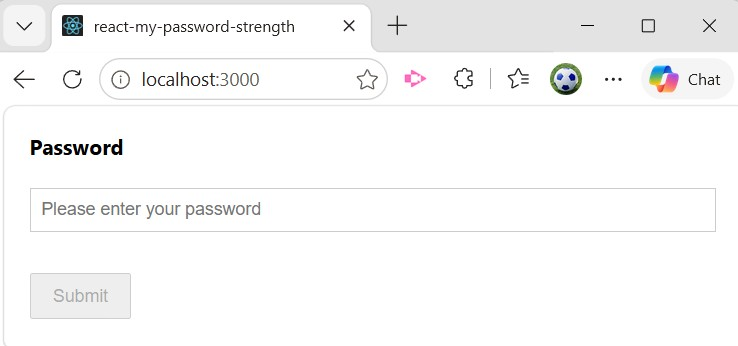
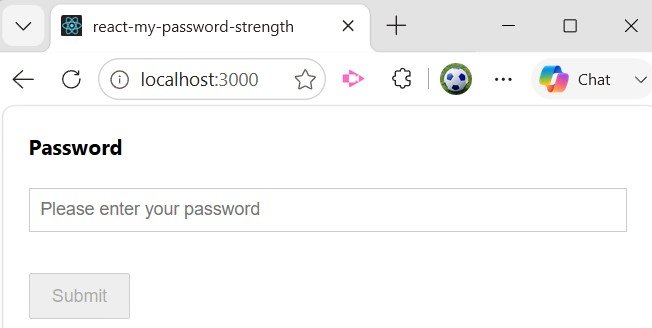
added max no of consecutive ascending/descending chars to reactjs project.

diff --git a/react-my-password-strength/src/index.test.tsx b/react-my-password-strength/src/index.test.tsx
@@ -1,6 +1,6 @@
 import React from 'react';
 import { render, fireEvent } from "@testing-library/react";
-import { MaximumNoOfConsecutiveDigits, MyPasswordStrengthOptions, PasswordStrength } from './index';
+import { MaximumNoOfConsecutiveCharacters, MaximumNoOfConsecutiveDigits, MyPasswordStrengthOptions, PasswordStrength } from './index';
 
 const initialStyleOptions={
   border: "1px solid #ccc",
@@ -51,7 +51,7 @@ const testBody = (strengthOptions: MyPasswordStrengthOptions, passwordToTest: st
 
 describe('All Together', () => {
   test.each([
-    ["P@76w0rDe123!", true] // Valid password
+    ["P@76abc0rDed123!", true] // Valid password
   ])(
     'passwordToTest: "%s" and expectedResult: %s',
     (passwordToTest, expectedResult) => {
@@ -74,6 +74,10 @@ describe('All Together', () => {
         options.maximumNoOfConsecutiveAscendingDigits = MaximumNoOfConsecutiveDigits.Three;
         options.requireMaximumNoOfConsecutiveDescendingDigits = true;
         options.maximumNoOfConsecutiveDescendingDigits = MaximumNoOfConsecutiveDigits.Three;
+        options.requireMaximumNoOfConsecutiveAscendingCharacters = true;
+        options.maximumNoOfConsecutiveAscendingCharacters = MaximumNoOfConsecutiveCharacters.Three;
+        options.requireMaximumNoOfConsecutiveDescendingCharacters = true;
+        options.maximumNoOfConsecutiveDescendingCharacters = MaximumNoOfConsecutiveCharacters.Two;
         
         return options;
       };
@@ -235,6 +239,49 @@ describe('Max No Of Consecutive Ascending & Descending Digits', () => {
         options.maximumNoOfConsecutiveAscendingDigits = maxNoOfConsecutiveAscendingDigits;
         options.requireMaximumNoOfConsecutiveDescendingDigits = true;
         options.maximumNoOfConsecutiveDescendingDigits = maxNoOfConsecutiveDescendingDigits;
+        
+        return options;
+      };
+      testBody(getOptions(), passwordToTest, expectedResult);
+    }
+  );
+});
+
+describe('Max No Of Consecutive Ascending & Descending Characters', () => {
+  test.each([
+    ["Password1!", MaximumNoOfConsecutiveCharacters.Two, MaximumNoOfConsecutiveCharacters.Two, true], // Valid password
+    ["Pabword1!", MaximumNoOfConsecutiveCharacters.Two, MaximumNoOfConsecutiveCharacters.Two, true], // Valid password
+    ["PABcdworDCa1!", MaximumNoOfConsecutiveCharacters.Four, MaximumNoOfConsecutiveCharacters.Two, true], // Valid password
+    ["Pabwordc1!", MaximumNoOfConsecutiveCharacters.Two, MaximumNoOfConsecutiveCharacters.Two, true], // Valid password
+    ["Pabwordcb1!", MaximumNoOfConsecutiveCharacters.Two, MaximumNoOfConsecutiveCharacters.Three, true], // Valid password
+    ["Pabcwordcb1!", MaximumNoOfConsecutiveCharacters.Three, MaximumNoOfConsecutiveCharacters.Three, true], // Valid password
+    ["PAbCdwordCBa1!", MaximumNoOfConsecutiveCharacters.Four, MaximumNoOfConsecutiveCharacters.Four, true], // Valid password
+    ["PABcdworDCa1!", MaximumNoOfConsecutiveCharacters.Four, MaximumNoOfConsecutiveCharacters.Three, true], // Valid password      
+    ["PABcdworDCa1!", MaximumNoOfConsecutiveCharacters.Four, MaximumNoOfConsecutiveCharacters.Two, true], // Valid password
+    ["Pabcword1!", MaximumNoOfConsecutiveCharacters.Two, MaximumNoOfConsecutiveCharacters.Two, false],
+    ["Passwordcb1!", MaximumNoOfConsecutiveCharacters.Two, MaximumNoOfConsecutiveCharacters.Two, false],
+    ["PaBcwordCb1!", MaximumNoOfConsecutiveCharacters.Three, MaximumNoOfConsecutiveCharacters.Two, false],
+    ["PAbCdwordbCa1!", MaximumNoOfConsecutiveCharacters.Three, MaximumNoOfConsecutiveCharacters.Three, false],
+    ["PaBcwordC1!", MaximumNoOfConsecutiveCharacters.Two, MaximumNoOfConsecutiveCharacters.Two, false]
+  ])(
+    'passwordToTest: "%s" maxNoOfConsecutiveAscendingCharacters: %s maxNoOfConsecutiveDescendingCharacters: %s and expectedResult: %s',
+    (passwordToTest, maxNoOfConsecutiveAscendingCharacters, maxNoOfConsecutiveDescendingCharacters, expectedResult) => {
+      // Configure password strength requirements
+      const getOptions = () : MyPasswordStrengthOptions => {
+        let options = new MyPasswordStrengthOptions();
+
+        options.minimumLength = 8;
+        options.requireUppercase = false;
+        options.requireLowercase = false;
+        options.requireDigit = false;
+        options.requireSpecialCharacter = false;
+        options.requireMaxNoOfSameConsecutiveCharacters = false;        
+        options.requireMaximumNoOfConsecutiveAscendingDigits = false;
+        options.requireMaximumNoOfConsecutiveDescendingDigits = false;
+        options.requireMaximumNoOfConsecutiveAscendingCharacters = true;
+        options.maximumNoOfConsecutiveAscendingCharacters = maxNoOfConsecutiveAscendingCharacters; 
+        options.requireMaximumNoOfConsecutiveDescendingCharacters = true;       
+        options.maximumNoOfConsecutiveDescendingCharacters = maxNoOfConsecutiveDescendingCharacters;
         
         return options;
       };

diff --git a/react-my-password-strength/src/index.tsx b/react-my-password-strength/src/index.tsx
@@ -1,5 +1,5 @@
 import * as React from 'react'
-import { MaxNoOfConsecutiveDigits, PasswordStrengthValidator } from 'ts-my-password-strength'
+import { MaxNoOfConsecutiveCharacters, MaxNoOfConsecutiveDigits, PasswordStrengthValidator } from 'ts-my-password-strength'
 
 interface Props {
   strengthOptions: MyPasswordStrengthOptions,
@@ -54,6 +54,10 @@ export const PasswordStrength = ({ name = "password",
     validator.maximumNoOfConsecutiveAscendingDigits = strengthOptions.maximumNoOfConsecutiveAscendingDigits as unknown as MaxNoOfConsecutiveDigits;
     validator.requireMaxNoOfConsecutiveDescendingDigits = strengthOptions.requireMaximumNoOfConsecutiveDescendingDigits;
     validator.maximumNoOfConsecutiveDescendingDigits = strengthOptions.maximumNoOfConsecutiveDescendingDigits as unknown as MaxNoOfConsecutiveDigits;
+    validator.requireMaxNoOfConsecutiveAscendingCharacters = strengthOptions.requireMaximumNoOfConsecutiveAscendingCharacters;
+    validator.maxNoOfConsecutiveAscendingCharacters = strengthOptions.maximumNoOfConsecutiveAscendingCharacters as unknown as MaxNoOfConsecutiveCharacters;
+    validator.requireMaxNoOfConsecutiveDescendingCharacters = strengthOptions.requireMaximumNoOfConsecutiveDescendingCharacters;
+    validator.maxNoOfConsecutiveDescendingCharacters = strengthOptions.maximumNoOfConsecutiveDescendingCharacters as unknown as MaxNoOfConsecutiveCharacters;
 
     console.log("Validator configuration: ", validator);
 
@@ -87,7 +91,7 @@ export class MyPasswordStrengthOptions {
   minimumDigit : number = 1;
   requireSpecialCharacter : boolean = true;
   minimumSpecialCharacter : number = 1;
-  specialCharacters : string = '@$!%*?&';
+  specialCharacters : string = `!"#$%&'()*+,-./:;<=>?@[\\]^_\`{|}~`;
   requireUppercase : boolean = true;
   minimumUppercase : number = 1;
   requireMaxNoOfSameConsecutiveCharacters  : boolean = true;
@@ -96,9 +100,20 @@ export class MyPasswordStrengthOptions {
   maximumNoOfConsecutiveAscendingDigits: MaximumNoOfConsecutiveDigits = MaximumNoOfConsecutiveDigits.Two;
   requireMaximumNoOfConsecutiveDescendingDigits: boolean = true;
   maximumNoOfConsecutiveDescendingDigits: MaximumNoOfConsecutiveDigits = MaximumNoOfConsecutiveDigits.Two;
+  requireMaximumNoOfConsecutiveAscendingCharacters: boolean = true;
+  maximumNoOfConsecutiveAscendingCharacters: MaximumNoOfConsecutiveCharacters = MaximumNoOfConsecutiveCharacters.Two;
+  requireMaximumNoOfConsecutiveDescendingCharacters: boolean = true;
+  maximumNoOfConsecutiveDescendingCharacters: MaximumNoOfConsecutiveCharacters = MaximumNoOfConsecutiveCharacters.Two; 
 }
 
 export enum MaximumNoOfConsecutiveDigits {
+  Two = 2,
+  Three = 3,
+  Four = 4,
+  Five = 5
+}
+
+export enum MaximumNoOfConsecutiveCharacters {
   Two = 2,
   Three = 3,
   Four = 4,

diff --git a/react-my-password-strength/example/src/App.tsx b/react-my-password-strength/example/src/App.tsx
@@ -1,5 +1,5 @@
 import React, { useState } from 'react'
-import { MaximumNoOfConsecutiveDigits, MyPasswordStrengthOptions, PasswordStrength } from 'react-my-password-strength'
+import { MaximumNoOfConsecutiveCharacters, MaximumNoOfConsecutiveDigits, MyPasswordStrengthOptions, PasswordStrength } from 'react-my-password-strength'
 
 const App = () => {
   const [formData, setFormData] = useState({});
@@ -15,7 +15,7 @@ const App = () => {
       return;
     }
 
-    setError(isValid ? "" : "Password must be at least 9 chars, 2 uppercase, 3 lowercase, 2 digit, 2 special char, no more than 2 same consecutive chars, no more than 3 consecutive ascending digits, no more than 3 consecutive descending digits");
+    setError(isValid ? "" : "Password must be at least 9 chars, 2 uppercase, 3 lowercase, 2 digit, 2 special char, no more than 2 same consecutive chars, no more than 3 consecutive ascending digits, no more than 2 consecutive descending digits, no more than 3 consecutive ascending chars, no more than 2 consecutive descending chars");
 
     setFormData((prev) => ({ ...prev, [name]: value }));
     // Check if all fields are valid
@@ -67,7 +67,7 @@ export default App
 function getOptions(): MyPasswordStrengthOptions {
   let options = new MyPasswordStrengthOptions();
 
-  options.minimumLength = 8;
+  options.minimumLength = 9;
   options.requireUppercase = true;
   options.minimumUppercase = 2;
   options.requireLowercase = true;
@@ -81,7 +81,11 @@ function getOptions(): MyPasswordStrengthOptions {
   options.requireMaximumNoOfConsecutiveAscendingDigits = true;
   options.maximumNoOfConsecutiveAscendingDigits = MaximumNoOfConsecutiveDigits.Three;
   options.requireMaximumNoOfConsecutiveDescendingDigits = true;
-  options.maximumNoOfConsecutiveDescendingDigits = MaximumNoOfConsecutiveDigits.Three;
+  options.maximumNoOfConsecutiveDescendingDigits = MaximumNoOfConsecutiveDigits.Two;
+  options.requireMaximumNoOfConsecutiveAscendingCharacters = true;
+  options.maximumNoOfConsecutiveAscendingCharacters = MaximumNoOfConsecutiveCharacters.Three;
+  options.requireMaximumNoOfConsecutiveDescendingCharacters = true;
+  options.maximumNoOfConsecutiveDescendingCharacters = MaximumNoOfConsecutiveCharacters.Two;
 
   return options;
 }

diff --git a/react-my-password-strength/README.md b/react-my-password-strength/README.md
@@ -24,6 +24,17 @@ The package provides a `PasswordStrength` component that you can use to validate
 
 You can set the password strength requirements through the properties of the `MyPasswordStrengthOptions` class and pass the options to the function.
 
+You can configure:
+
+* Minimum length
+* Minimum upper case characters
+* Minimum lower case characters
+* Minimum digits
+* Minimum special characters
+* Maximum same consecutive characters - eg aaa
+* Maximum consecutive ascending and/or descending digits - eg 123 / 654
+* Maximum consecutive ascending and/or descending characters - eg aBCd / DcbA
+
 The special characters considered in the validation are: @$!%*?&. 
 
 You can modify this set of special characters by setting the `specialCharacters` property of the options to a custom string of special characters.
@@ -32,7 +43,7 @@ You can modify this set of special characters by setting the `specialCharacters`
 
 ```tsx
 import React, { useState } from 'react'
-import { MaximumNoOfConsecutiveDigits, MyPasswordStrengthOptions, PasswordStrength } from 'react-my-password-strength'
+import { MaximumNoOfConsecutiveCharacters, MaximumNoOfConsecutiveDigits, MyPasswordStrengthOptions, PasswordStrength } from 'react-my-password-strength'
 
 const App = () => {
   const [formData, setFormData] = useState({});
@@ -48,7 +59,7 @@ const App = () => {
       return;
     }
 
-    setError(isValid ? "" : "Password must be at least 9 chars, 2 uppercase, 3 lowercase, 2 digit, 2 special char, no more than 2 same consecutive chars, no more than 3 consecutive ascending digits, no more than 3 consecutive descending digits");
+    setError(isValid ? "" : "Password must be at least 9 chars, 2 uppercase, 3 lowercase, 2 digit, 2 special char, no more than 2 same consecutive chars, no more than 3 consecutive ascending digits, no more than 2 consecutive descending digits, no more than 3 consecutive ascending chars, no more than 2 consecutive descending chars");
 
     setFormData((prev) => ({ ...prev, [name]: value }));
     // Check if all fields are valid
@@ -100,7 +111,7 @@ export default App
 function getOptions(): MyPasswordStrengthOptions {
   let options = new MyPasswordStrengthOptions();
 
-  options.minimumLength = 8;
+  options.minimumLength = 9;
   options.requireUppercase = true;
   options.minimumUppercase = 2;
   options.requireLowercase = true;
@@ -114,7 +125,11 @@ function getOptions(): MyPasswordStrengthOptions {
   options.requireMaximumNoOfConsecutiveAscendingDigits = true;
   options.maximumNoOfConsecutiveAscendingDigits = MaximumNoOfConsecutiveDigits.Three;
   options.requireMaximumNoOfConsecutiveDescendingDigits = true;
-  options.maximumNoOfConsecutiveDescendingDigits = MaximumNoOfConsecutiveDigits.Three;
+  options.maximumNoOfConsecutiveDescendingDigits = MaximumNoOfConsecutiveDigits.Two;
+  options.requireMaximumNoOfConsecutiveAscendingCharacters = true;
+  options.maximumNoOfConsecutiveAscendingCharacters = MaximumNoOfConsecutiveCharacters.Three;
+  options.requireMaximumNoOfConsecutiveDescendingCharacters = true;
+  options.maximumNoOfConsecutiveDescendingCharacters = MaximumNoOfConsecutiveCharacters.Two;  
 
   return options;
 }